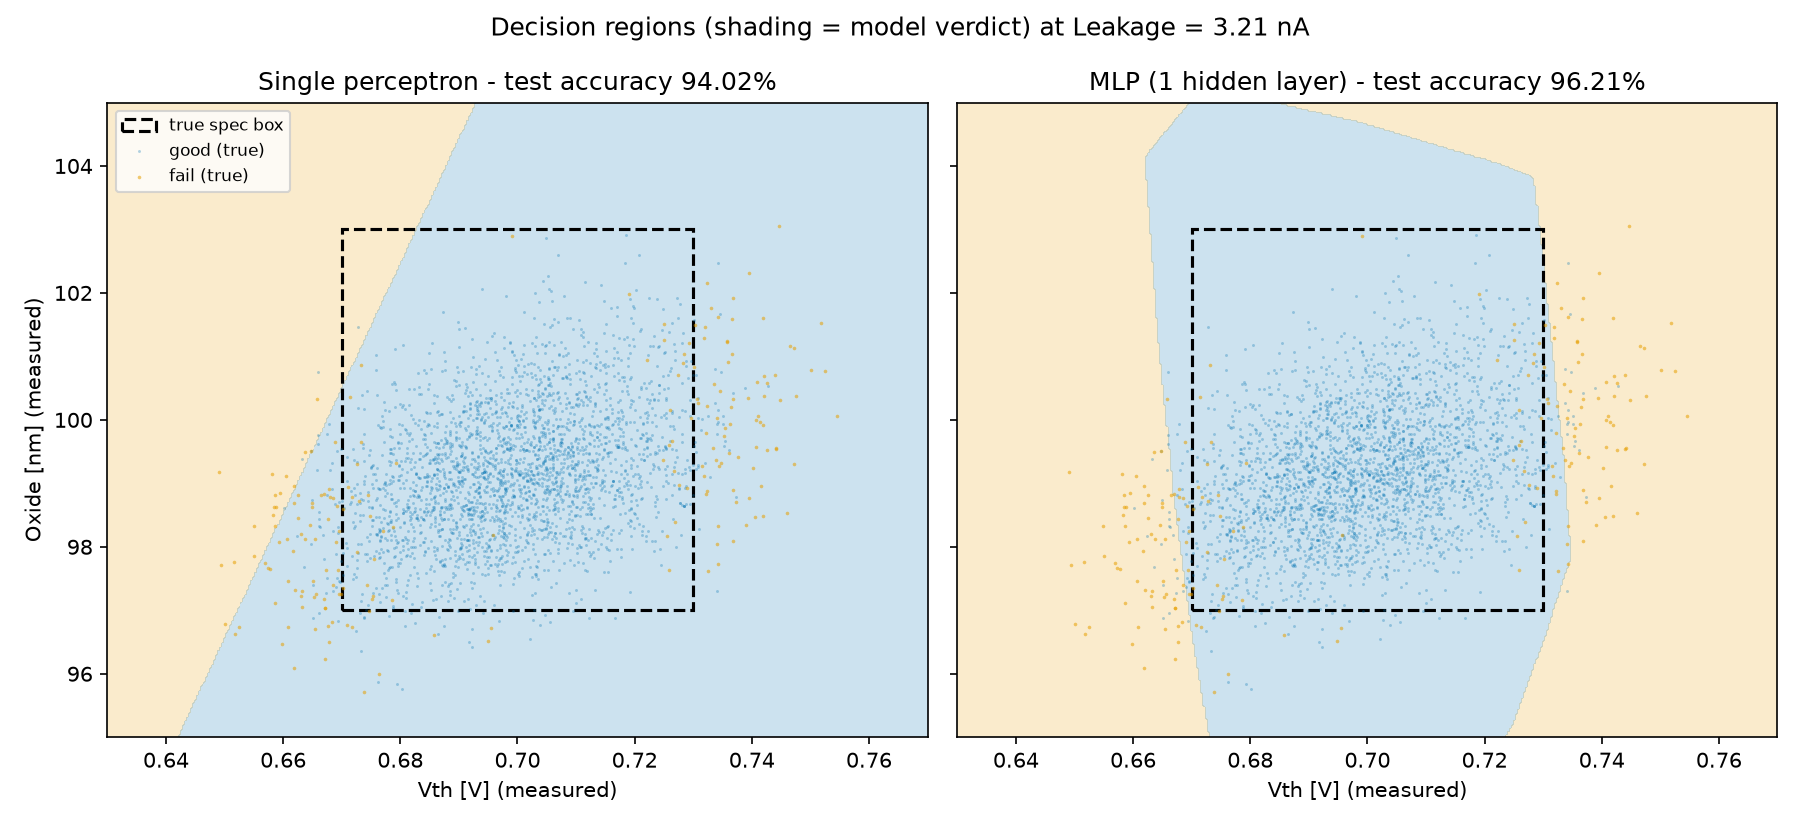
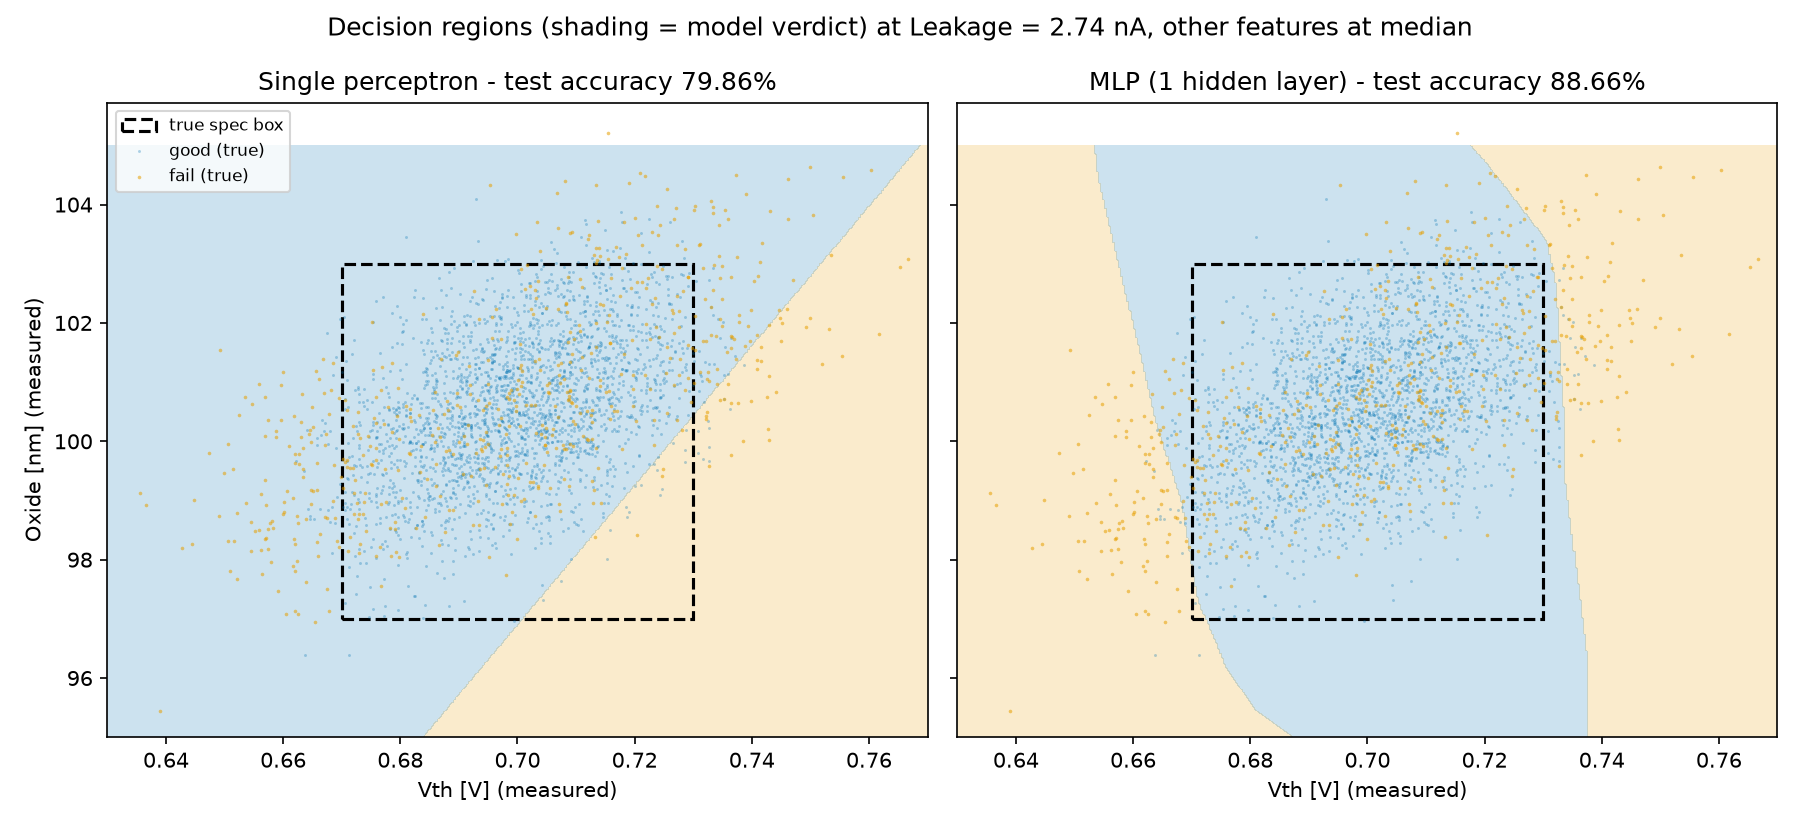
Expand feature space to 5-D by adding CD and Temperature
Add gate critical dimension (CD) and process temperature as two new
per-wafer features, each with two-sided spec limits that join the
pass/fail spec box. CD and Temp are physically coupled at generation
(smaller CD -> lower Vth, higher leakage; higher Temp -> higher leakage),
and carry their own measurement noise.

With a 5-D spec box the single-layer perceptron's ceiling is starker:
its accuracy (79.86%) now falls below the all-good baseline (80.70%) and
it misses 95% of fails, while the weighted MLP holds 85% fail recall.

Regenerated docs/decision_boundary.png and updated README/CLAUDE.md for
the new 5-feature contract.

diff --git a/ml/visualize_boundary.py b/ml/visualize_boundary.py
@@ -18,21 +18,24 @@ GOOD_COLOR = "#0072B2"
 FAIL_COLOR = "#E69F00"
 
 
-# Paint the model's verdict over a Vth-Oxide plane (Leakage held fixed
-# at a healthy value), then overlay the true spec box. If the model
-# really learned the rule, the painted "good" region should match the
-# box; a single perceptron can only paint a half-plane.
-def plot_decision_region(ax, model, mean, std, leakage_fixed, title):
+# Paint the model's verdict over a Vth-Oxide plane (every other feature
+# held fixed at a healthy value), then overlay the true spec box. If the
+# model really learned the rule, the painted "good" region should match
+# the box; a single perceptron can only paint a half-plane.
+#
+# background is the full feature vector (length n_features) the slice
+# sits at; columns 0/1 (Vth/Oxide) are swept, the rest stay at their
+# median so the 2-D picture stays interpretable however many features
+# the model actually uses.
+def plot_decision_region(ax, model, mean, std, background, title):
 
     vth = np.linspace(0.63, 0.77, 400)
     oxide = np.linspace(95, 105, 400)
     VV, OO = np.meshgrid(vth, oxide)
 
-    grid = np.column_stack([
-        VV.ravel(),
-        OO.ravel(),
-        np.full(VV.size, leakage_fixed)
-    ])
+    grid = np.tile(background, (VV.size, 1))
+    grid[:, 0] = VV.ravel()
+    grid[:, 1] = OO.ravel()
     grid_std = (grid - mean) / std
 
     region = model.predict(grid_std).reshape(VV.shape)
@@ -85,18 +88,22 @@ if __name__ == "__main__":
     X_train_std, mean, std = standardize(X_train)
     X_test_std, _, _ = standardize(X_test, mean, std)
 
+    n_features = X_train_std.shape[1]
+
     print("training single perceptron ...")
-    perceptron = Perceptron(n_features=3)
+    perceptron = Perceptron(n_features=n_features)
     perceptron.fit(X_train_std, y_train, epochs=10)
 
     print()
     print("training MLP ...")
-    mlp = MLP(n_features=3)
+    mlp = MLP(n_features=n_features)
     mlp.fit(X_train_std, y_train, epochs=30)
 
-    # slice the 3D feature space at a healthy leakage level,
-    # so the Vth-Oxide plane shows the spec box cleanly
-    leakage_fixed = float(np.median(X_train[:, 2]))
+    # slice the feature space at the median of every non-plotted feature
+    # (Leakage, CD, Temp, ...), so the Vth-Oxide plane shows the spec box
+    # cleanly. background holds the raw (un-standardized) medians.
+    background = np.median(X_train, axis=0)
+    leakage_fixed = float(background[2])
 
     fig, axes = plt.subplots(1, 2, figsize=(12, 5.5), sharey=True)
 
@@ -106,7 +113,7 @@ if __name__ == "__main__":
     ):
         acc = (model.predict(X_test_std) == y_test).mean()
         plot_decision_region(
-            ax, model, mean, std, leakage_fixed,
+            ax, model, mean, std, background,
             f"{name} - test accuracy {acc * 100:.2f}%"
         )
         scatter_test_wafers(ax, X_test, y_test)
@@ -116,7 +123,7 @@ if __name__ == "__main__":
 
     fig.suptitle(
         "Decision regions (shading = model verdict) "
-        f"at Leakage = {leakage_fixed:.2f} nA"
+        f"at Leakage = {leakage_fixed:.2f} nA, other features at median"
     )
 
     os.makedirs("graph/ml", exist_ok=True)

diff --git a/main.py b/main.py
@@ -2,7 +2,7 @@ import pandas as pd
 import numpy as np
 from simulation.wafer_generate import make_random_condi, add_measurement_noise
 from simulation.wafer_analysis import wafer_analysis
-from simulation.defect_analysis import extract_fail, analyze_Leakage_fail, analyze_Oxide_fail, analyze_Vth_fail
+from simulation.defect_analysis import extract_fail, analyze_Leakage_fail, analyze_Oxide_fail, analyze_Vth_fail, analyze_CD_fail, analyze_Temp_fail
 from simulation.visualization import show_vth_distribution, show_defect_pareto
 from simulation.run_logger import save_run_info, save_wafer_data
 from simulation.run_manage import setup_run
@@ -17,13 +17,15 @@ def run_simulation(config, seed=None):
 
     num_wafer = config["num_wafer"]
 
-    Vth, Oxide, Leakage = make_random_condi(config)
+    Vth, Oxide, Leakage, CD, Temp = make_random_condi(config)
 
     wafer_data = pd.DataFrame({
         "Wafer_ID" : range(1, num_wafer + 1),
         "Vth[V]" : Vth,
         "Oxide[nm]" : Oxide,
-        "Leakage[nA]" : Leakage
+        "Leakage[nA]" : Leakage,
+        "CD[nm]" : CD,
+        "Temp[C]" : Temp
     })
 
     print(wafer_data)
@@ -33,16 +35,20 @@ def run_simulation(config, seed=None):
     fail_Vth = analyze_Vth_fail(wafer_data)
     fail_Oxide = analyze_Oxide_fail(wafer_data)
     fail_Leakage = analyze_Leakage_fail(wafer_data)
+    fail_CD = analyze_CD_fail(wafer_data)
+    fail_Temp = analyze_Temp_fail(wafer_data)
 
     # Pass/fail was judged on the true values above; from here on the
     # dataset holds what the tester measures (true + sensor noise),
     # because that is all a real fab - or an ML model - ever sees.
-    Vth_m, Oxide_m, Leakage_m = add_measurement_noise(
-        Vth, Oxide, Leakage, MEASUREMENT_NOISE
+    Vth_m, Oxide_m, Leakage_m, CD_m, Temp_m = add_measurement_noise(
+        Vth, Oxide, Leakage, CD, Temp, MEASUREMENT_NOISE
     )
     wafer_data["Vth[V]"] = Vth_m
     wafer_data["Oxide[nm]"] = Oxide_m
     wafer_data["Leakage[nA]"] = Leakage_m
+    wafer_data["CD[nm]"] = CD_m
+    wafer_data["Temp[C]"] = Temp_m
 
     corr = calculate_correlation(wafer_data)
 
@@ -51,6 +57,8 @@ def run_simulation(config, seed=None):
     print("Vth error : ", fail_Vth)
     print("oxide error : ", fail_Oxide)
     print("leakage current error :", fail_Leakage)
+    print("CD error : ", fail_CD)
+    print("temperature error : ", fail_Temp)
 
     show_vth_distribution(wafer_data, run_path, time)
 
@@ -58,6 +66,8 @@ def run_simulation(config, seed=None):
         fail_Vth,
         fail_Oxide,
         fail_Leakage,
+        fail_CD,
+        fail_Temp,
         run_path,
         time
     )

diff --git a/simulation/wafer_generate.py b/simulation/wafer_generate.py
@@ -11,14 +11,30 @@ def make_random_condi(config):
         size=num_wafer
     )
 
+    # CD (gate critical dimension) and process temperature are drawn
+    # independently; the couplings below inject their physical effect
+    # into Vth / Leakage, the same way Oxide already does.
+    CD = np.random.normal(
+        loc=config["CD"]["mean"],
+        scale=config["CD"]["std"],
+        size=num_wafer
+    )
+
+    Temp = np.random.normal(
+        loc=config["Temp"]["mean"],
+        scale=config["Temp"]["std"],
+        size=num_wafer
+    )
+
     Base_Vth = np.random.normal(
         loc=config["Vth"]["mean"],
         scale=config["Vth"]["std"],
         size=num_wafer
     )
 
+    # thicker oxide raises Vth; smaller CD (shorter channel) lowers it
     Vth = (
-        Base_Vth + 0.01 * (Oxide - 100)
+        Base_Vth + 0.01 * (Oxide - 100) + 0.004 * (CD - 45)
     )
 
 
@@ -28,23 +44,29 @@ def make_random_condi(config):
         size=num_wafer
     )
 
+    # thinner oxide, smaller CD, and higher temperature all leak more
     Leakage = (
-        Base_Leakage * np.exp(-0.3 * (Oxide - 100))
+        Base_Leakage
+        * np.exp(-0.3 * (Oxide - 100))
+        * np.exp(-0.05 * (CD - 45))
+        * np.exp(0.03 * (Temp - 25))
     )
 
-    return Vth, Oxide, Leakage
+    return Vth, Oxide, Leakage, CD, Temp
 
 
 # What the tester reports: true value + sensor noise.
 # Leakage noise is multiplicative (lognormal) so it stays positive.
-def add_measurement_noise(Vth, Oxide, Leakage, noise):
+def add_measurement_noise(Vth, Oxide, Leakage, CD, Temp, noise):
 
     n = len(Vth)
 
     Vth_measured = Vth + np.random.normal(0, noise["Vth"], n)
     Oxide_measured = Oxide + np.random.normal(0, noise["Oxide"], n)
     Leakage_measured = Leakage * np.random.lognormal(0, noise["Leakage"], n)
+    CD_measured = CD + np.random.normal(0, noise["CD"], n)
+    Temp_measured = Temp + np.random.normal(0, noise["Temp"], n)
 
-    return Vth_measured, Oxide_measured, Leakage_measured
+    return Vth_measured, Oxide_measured, Leakage_measured, CD_measured, Temp_measured
 
 

diff --git a/simulation/config.py b/simulation/config.py
@@ -21,6 +21,20 @@ PROCESS_CONFIG = {
         "mean": 1.0,
         "sigma": 0.15,
         "spec_max": 10
+    },
+
+    "CD": {
+        "mean": 45,
+        "std": 0.6,
+        "spec_min": 43.5,
+        "spec_max": 46.5
+    },
+
+    "Temp": {
+        "mean": 25,
+        "std": 0.8,
+        "spec_min": 23,
+        "spec_max": 27
     }
 }
 
@@ -34,7 +48,9 @@ PROCESS_CONFIG = {
 MEASUREMENT_NOISE = {
     "Vth": 0.005,     # additive gaussian std [V]
     "Oxide": 0.5,     # additive gaussian std [nm]
-    "Leakage": 0.10   # multiplicative lognormal sigma
+    "Leakage": 0.10,  # multiplicative lognormal sigma
+    "CD": 0.3,        # additive gaussian std [nm]
+    "Temp": 0.4       # additive gaussian std [C]
 }
 
 
@@ -57,5 +73,15 @@ PARAM_RANGES = {
     "Leakage": {
         "mean":  (0.8, 1.3),
         "sigma": (0.10, 0.25)
+    },
+
+    "CD": {
+        "mean": (44.4, 45.6),
+        "std":  (0.5, 0.85)
+    },
+
+    "Temp": {
+        "mean": (24.3, 25.7),
+        "std":  (0.7, 1.1)
     }
 }

diff --git a/simulation/wafer_analysis.py b/simulation/wafer_analysis.py
@@ -7,7 +7,11 @@ def wafer_analysis(wafer_data):
         (wafer_data["Vth[V]"] <= PROCESS_CONFIG["Vth"]["spec_max"]) &
         (wafer_data["Oxide[nm]"] >= PROCESS_CONFIG["Oxide"]["spec_min"]) &
         (wafer_data["Oxide[nm]"] <= PROCESS_CONFIG["Oxide"]["spec_max"]) &
-        (wafer_data["Leakage[nA]"] <= PROCESS_CONFIG["Leakage"]["spec_max"])
+        (wafer_data["Leakage[nA]"] <= PROCESS_CONFIG["Leakage"]["spec_max"]) &
+        (wafer_data["CD[nm]"] >= PROCESS_CONFIG["CD"]["spec_min"]) &
+        (wafer_data["CD[nm]"] <= PROCESS_CONFIG["CD"]["spec_max"]) &
+        (wafer_data["Temp[C]"] >= PROCESS_CONFIG["Temp"]["spec_min"]) &
+        (wafer_data["Temp[C]"] <= PROCESS_CONFIG["Temp"]["spec_max"])
     )
 
     wafer_data["Result"] = condition

diff --git a/simulation/visualization.py b/simulation/visualization.py
@@ -15,18 +15,23 @@ def show_vth_distribution(wafer_data, run_path, time):
     plt.savefig(f"{run_path}/distribution/{time}_Vth_distribution.png")
     plt.close()
 
-def show_defect_pareto(Vth_fail, Oxide_fail, Leakage_fail, run_path, time):
+def show_defect_pareto(Vth_fail, Oxide_fail, Leakage_fail, CD_fail, Temp_fail,
+                       run_path, time):
 
     causes = [
         "Vth",
         "Oxide",
-        "Leakage"
+        "Leakage",
+        "CD",
+        "Temp"
     ]
 
     counts = [
         Vth_fail,
         Oxide_fail,
-        Leakage_fail
+        Leakage_fail,
+        CD_fail,
+        Temp_fail
     ]
 
     plt.bar(causes, counts)

diff --git a/simulation/defect_analysis.py b/simulation/defect_analysis.py
@@ -27,3 +27,19 @@ def analyze_Leakage_fail(wafer_data):
     )
 
     return fail.sum()
+
+def analyze_CD_fail(wafer_data):
+    fail = (
+        (wafer_data["CD[nm]"] < PROCESS_CONFIG["CD"]["spec_min"]) |
+        (wafer_data["CD[nm]"] > PROCESS_CONFIG["CD"]["spec_max"])
+    )
+
+    return fail.sum()
+
+def analyze_Temp_fail(wafer_data):
+    fail = (
+        (wafer_data["Temp[C]"] < PROCESS_CONFIG["Temp"]["spec_min"]) |
+        (wafer_data["Temp[C]"] > PROCESS_CONFIG["Temp"]["spec_max"])
+    )
+
+    return fail.sum()

diff --git a/simulation/run_logger.py b/simulation/run_logger.py
@@ -29,7 +29,16 @@ def save_run_info(
                 corr.loc["Oxide[nm]", "Leakage[nA]"],
 
             "Vth-Leakage":
-                corr.loc["Vth[V]", "Leakage[nA]"]
+                corr.loc["Vth[V]", "Leakage[nA]"],
+
+            "CD-Vth":
+                corr.loc["CD[nm]", "Vth[V]"],
+
+            "CD-Leakage":
+                corr.loc["CD[nm]", "Leakage[nA]"],
+
+            "Temp-Leakage":
+                corr.loc["Temp[C]", "Leakage[nA]"]
         }
     }
 

diff --git a/simulation/correlation_analysis.py b/simulation/correlation_analysis.py
@@ -37,7 +37,9 @@ def calculate_correlation(wafer_data):
         [
             "Vth[V]",
             "Oxide[nm]",
-            "Leakage[nA]"
+            "Leakage[nA]",
+            "CD[nm]",
+            "Temp[C]"
         ]
     ].corr()
 

diff --git a/ml/dataset.py b/ml/dataset.py
@@ -4,7 +4,7 @@ import os
 import numpy as np
 import pandas as pd
 
-FEATURE_COLUMNS = ["Vth[V]", "Oxide[nm]", "Leakage[nA]"]
+FEATURE_COLUMNS = ["Vth[V]", "Oxide[nm]", "Leakage[nA]", "CD[nm]", "Temp[C]"]
 LABEL_COLUMN = "Result"
 
 

diff --git a/CLAUDE.md b/CLAUDE.md
@@ -57,7 +57,8 @@ is gitignored — all of it is regenerable):
 - **Labels are true-value based; features are measured.** In `main.py`,
   `wafer_analysis()` computes `Result` (pass/fail) from the *true* physical values
   first; only afterward is sensor noise added and the feature columns
-  (`Vth[V]`, `Oxide[nm]`, `Leakage[nA]`) overwritten with the noisy measurements.
+  (`Vth[V]`, `Oxide[nm]`, `Leakage[nA]`, `CD[nm]`, `Temp[C]`) overwritten with the
+  noisy measurements.
   So the CSV holds noisy features but clean labels. This is deliberate: near a
   spec boundary the measurement can't determine pass/fail, making the problem
   genuinely probabilistic — no model can reach 100%. If you touch the ordering of
